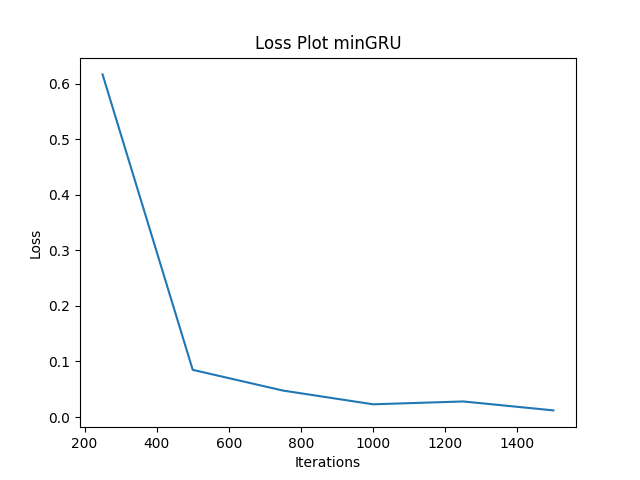
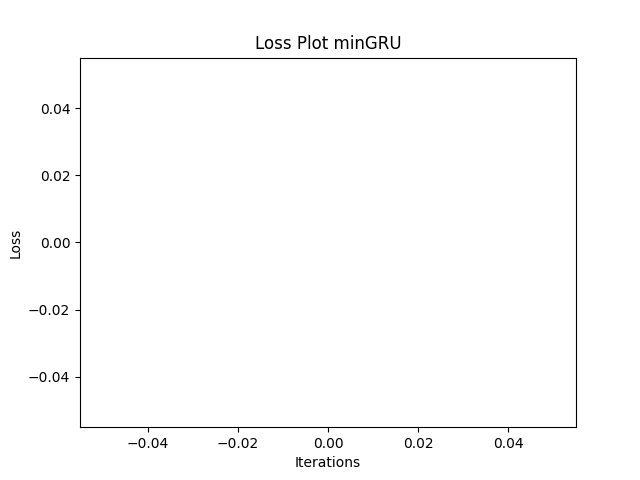
add metrics

diff --git a/src/Evaluation.py b/src/Evaluation.py
@@ -3,14 +3,13 @@ from Data import CodeDataset
 from torch import nn
 import torch
 from Parser import tokenizer
-from nltk.translate.bleu_score import sentence_bleu
 from torcheval.metrics import Perplexity
 
 """
     Metrics
     - Pass@k
     - Sentence Similarity
-    - BLUE
+    - EM
     - Perplexity
 """
 
@@ -41,30 +40,28 @@ class Evaluator:
         
             expected_output = prompt.split("<PROGRAM END>")[1]
 
-            (exp_int, _), _ = tokenizer(expected_output)
+            (exp_int, _), _, _ = tokenizer(expected_output)
             exp_vec = torch.tensor([exp_int], dtype=torch.long, device=self.lm.device)
-            (out_int, _), _ = tokenizer(generated_output)
+            (out_int, _), _, _ = tokenizer(generated_output)
             out_vec = torch.tensor([out_int], dtype=torch.long, device=self.lm.device)
 
             out_vec, exp_vec = self.pad_vectors(out_vec, exp_vec)
 
             similarity = self.sentence_similarity(out_vec, exp_vec)
 
-            bleu = sentence_bleu(
-                generated_output.split(" "),
-                expected_output.split("\n")[0:len(expected_output.split("\n"))-1]
-            )
-
             perplexity = self.perplexity(out_vec, exp_vec)
             pass_at_k = self.pass_at_k(out_vec, exp_vec, self.k)
+            exact_match = self.exact_match(out_vec, exp_vec)
 
+            print("-------------------- Data -----------------")
             print(f"Input: {input_prompt}")
             print(f"Output: {generated_output}")
             print(f"Expected: {expected_output}")
+            print("----------------- Metrics ------------------")
             print(f"Sentence Similarity: {similarity}")
-            print(f"BLEU: {bleu}")
             print(f"Perplexity: {perplexity}")
             print(f"Pass@{self.k}: {pass_at_k}")
+            print(f"Exact Match: {exact_match}")
             print("\n\n\n\n\n")
 
     def sentence_similarity(self, vec1, vec2):
@@ -75,8 +72,42 @@ class Evaluator:
 
         return similarity.item()
     
+    def exact_match(self, vec1, vec2):
+        if vec1.size(1) != vec2.size(1):
+            return 0
+
+        return int(torch.all(vec1 == vec2).item())
+    
     def perplexity(self, vec1, vec2):
-        return 0
+        # Initialize the perplexity metric
+        metric = Perplexity().to(self.lm.device)
+        vocab_size = self.lm.vocab_size
+        
+        # Reshape tensors to correct dimensions
+        # vec1 should be [batch_size, sequence_length]
+        if len(vec1.shape) > 2:
+            vec1 = vec1.squeeze()
+        
+        # Create a simple prediction distribution
+        # [batch_size, sequence_length, vocab_size]
+        logits = torch.zeros((1, vec1.size(1), vocab_size), device=vec1.device)
+        logits.scatter_(2, vec1.unsqueeze(-1), 1)  # One-hot encoding
+        probs = torch.softmax(logits, dim=-1)
+        vec2 = vec2.to(self.lm.device)
+        # Update and compute perplexity
+        metric.update(probs, vec2)
+        return metric.compute().item()
     
     def pass_at_k(self, vec1, vec2, k):
-        return 0
+        # Check if the vectors are of the same size
+        if vec1.size(1) != vec2.size(1):
+            return 0
+        
+        # Calculate the number of matching positions
+        matches = (vec1 == vec2).sum(dim=1).item()
+        
+        # Calculate the total length of the sequence
+        total_length = vec1.size(1)
+        
+        # If matches/total_length >= 1/k, consider it a pass
+        return int((matches / total_length) >= (1 / k))

diff --git a/src/Data.py b/src/Data.py
@@ -47,6 +47,17 @@ class CodeDatasetSubset(IterableDataset):
                 'literals': literals
             }
 
+    def get_prompts(self):
+        prompts = []
+        for data_path in self.data:
+            data_path = os.path.join(self.data_dir, data_path)
+            with open(data_path, "r") as f:
+                text = f.read()
+                if len(text) > 0:
+                    prompts.append(text)
+        return prompts
+
+
 class CodeDataset(IterableDataset):
     def __init__(self, curricum_num=1):
         self.data_dir = f"./training_examples/Curriculum{curricum_num}"
@@ -75,18 +86,6 @@ class CodeDataset(IterableDataset):
             "idx2word": idx2word,
             "size": len(vocab)
         }
-    
-    def get_prompts(self):
-        tokeniser = Tokeniser()
-        
-        prompts = []
-        for data_path in self.data:
-            data_path = os.path.join(self.data_dir, data_path)
-            with open(data_path, "r") as f:
-                text = f.read()
-                if len(text) > 0:
-                    prompts.append(text)
-        return prompts
 
     def __len__(self):
         return len(self.data)

diff --git a/src/LanguageModel.py b/src/LanguageModel.py
@@ -18,6 +18,7 @@ class LanguageModel:
         self.optimizer: Optimizer   = torch.optim.Adam(self.model.parameters(), lr=self.learning_rate)
         self.max_sample_length: int = 10
         self.device: str            = device
+        self.vocab_size: int        = vocab_size
         
         self.embedding = nn.Embedding(vocab_size, model.embedding_dim).to(device)
 
@@ -80,7 +81,7 @@ class LanguageModel:
         return torch.stack(output_seq, dim=1), self.loss.item() / target_tensor.size(1)
     
     def train_loop(self, dataloader: DataLoader, suffix: str = "", use_teacher_forcing: bool = False):
-        n_iters = 1500
+        n_iters = 15
         print_every = 500
         plot_every = 250
 

diff --git a/src/main.py b/src/main.py
@@ -63,7 +63,7 @@ def main():
         .to(device)
     model_gru = GRU(50, batch_size, 300, len(vocab), device)\
         .to(device)
-    model_minGRU = minGRU(50, batch_size, 300, len(vocab), device, MOE)\
+    model_minGRU = minGRU(50, batch_size, 300, len(vocab), device)\
         .to(device)
     model_minLSTM = minLSTM(50, batch_size, 300, len(vocab), device)\
         .to(device)
@@ -97,7 +97,7 @@ def main():
     """
 
 
-    eval = Evaluator(testset.dataset, LM)
+    eval = Evaluator(testset, LM)
     eval.evaluate()
 
 
